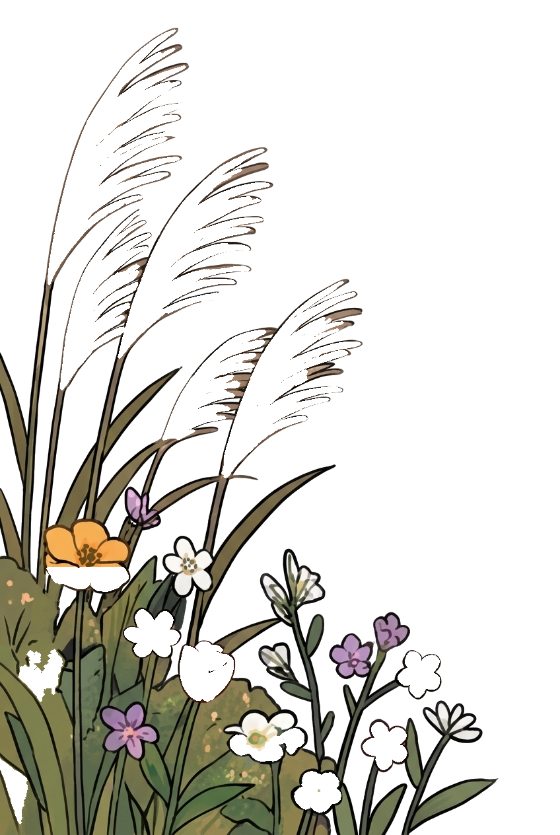
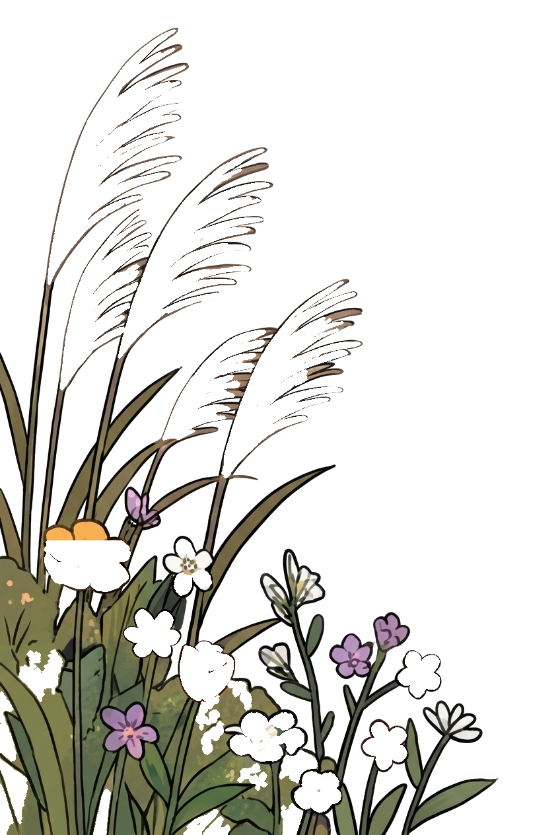
feat: 꽃도 낱낱이 떼어 내 흔들리게 한다
- 꽃 층을 10개에서 26개로 늘려 작은 꽃까지 제 줄기를 축으로 움직인다
- 이삭 다섯까지 모두 31개 층

diff --git a/themes/motifs.js b/themes/motifs.js
@@ -260,8 +260,8 @@
     { f: 'reeds-p3', k: 'p', l: 39.505, t: 33.612, w: 25.0, ox: 3.4 },
     { f: 'reeds-p4', k: 'p', l: 10.731, t: 24.912, w: 16.274, ox: 2.2 },
     { f: 'reeds-p5', k: 'p', l: 28.892, t: 39.464, w: 18.632, ox: 10.3 },
-    { f: 'reeds-f1', k: 'f', l: 22.17, t: 72.918, w: 10.024, ox: 50.3 },
-    { f: 'reeds-f2', k: 'f', l: 8.255, t: 67.857, w: 14.741, ox: 64.5 },
+    { f: 'reeds-f1', k: 'f', l: 7.901, t: 64.693, w: 15.448, ox: 63.8 },
+    { f: 'reeds-f2', k: 'f', l: 22.17, t: 72.918, w: 10.024, ox: 50.3 },
     { f: 'reeds-f3', k: 'f', l: 52.476, t: 92.295, w: 8.491, ox: 52.3 },
     { f: 'reeds-f4', k: 'f', l: 64.741, t: 86.442, w: 8.019, ox: 46.4 },
     { f: 'reeds-f5', k: 'f', l: 70.991, t: 77.98, w: 7.665, ox: 46.2 },
@@ -269,7 +269,23 @@
     { f: 'reeds-f7', k: 'f', l: 34.906, t: 76.794, w: 6.84, ox: 32.2 },
     { f: 'reeds-f8', k: 'f', l: 41.038, t: 87.154, w: 13.325, ox: 49.1 },
     { f: 'reeds-f9', k: 'f', l: 3.184, t: 77.664, w: 8.019, ox: 49.0 },
-    { f: 'reeds-f10', k: 'f', l: 0.0, t: 90.792, w: 4.953, ox: 69.7 }
+    { f: 'reeds-f10', k: 'f', l: 0.0, t: 90.792, w: 4.953, ox: 69.7 },
+    { f: 'reeds-f11', k: 'f', l: 49.882, t: 89.764, w: 6.84, ox: 40.5 },
+    { f: 'reeds-f12', k: 'f', l: 43.042, t: 85.256, w: 9.552, ox: 9.0 },
+    { f: 'reeds-f13', k: 'f', l: 0.0, t: 82.725, w: 2.948, ox: 69.0 },
+    { f: 'reeds-f14', k: 'f', l: 50.118, t: 96.17, w: 4.009, ox: 39.3 },
+    { f: 'reeds-f15', k: 'f', l: 16.627, t: 94.43, w: 3.184, ox: 36.8 },
+    { f: 'reeds-f16', k: 'f', l: 0.0, t: 93.797, w: 2.476, ox: 22.6 },
+    { f: 'reeds-f17', k: 'f', l: 34.906, t: 83.2, w: 4.363, ox: 22.7 },
+    { f: 'reeds-f18', k: 'f', l: 35.849, t: 86.284, w: 4.245, ox: 26.2 },
+    { f: 'reeds-f19', k: 'f', l: 32.665, t: 96.882, w: 6.368, ox: 27.7 },
+    { f: 'reeds-f20', k: 'f', l: 42.335, t: 91.346, w: 5.542, ox: 69.3 },
+    { f: 'reeds-f21', k: 'f', l: 40.566, t: 81.381, w: 4.481, ox: 80.2 },
+    { f: 'reeds-f22', k: 'f', l: 43.868, t: 87.154, w: 4.599, ox: 46.1 },
+    { f: 'reeds-f23', k: 'f', l: 36.203, t: 97.673, w: 4.953, ox: 47.1 },
+    { f: 'reeds-f24', k: 'f', l: 31.014, t: 68.569, w: 3.42, ox: 43.7 },
+    { f: 'reeds-f25', k: 'f', l: 31.368, t: 64.693, w: 3.538, ox: 64.4 },
+    { f: 'reeds-f26', k: 'f', l: 34.198, t: 68.094, w: 3.656, ox: 55.2 }
   ];
 
   function reedsArt(cls) {

diff --git a/courses.html b/courses.html
@@ -268,7 +268,7 @@
 <script src="https://cdn.jsdelivr.net/npm/@supabase/supabase-js@2"></script>
 <script src="js/supabase-client.js?v=3"></script>
 <script src="js/course-series.js"></script>
-<script src="js/nav.js?v=64"></script>
+<script src="js/nav.js?v=65"></script>
 <script src="js/main.js"></script>
 <script>
 function esc(s){if(!s)return'';return String(s).replace(/&/g,'&amp;').replace(/</g,'&lt;').replace(/>/g,'&gt;').replace(/"/g,'&quot;').replace(/'/g,'&#39;');}

diff --git a/instructor.html b/instructor.html
@@ -311,7 +311,7 @@
 
 <script src="https://cdn.jsdelivr.net/npm/@supabase/supabase-js@2"></script>
 <script src="js/supabase-client.js?v=3"></script>
-<script src="js/nav.js?v=64"></script>
+<script src="js/nav.js?v=65"></script>
 <script src="js/main.js"></script>
 <script>
 function esc(s){if(!s)return'';return String(s).replace(/&/g,'&amp;').replace(/</g,'&lt;').replace(/>/g,'&gt;').replace(/"/g,'&quot;').replace(/'/g,'&#39;');}

diff --git a/search.html b/search.html
@@ -168,7 +168,7 @@
 
 <script src="https://cdn.jsdelivr.net/npm/@supabase/supabase-js@2"></script>
 <script src="js/supabase-client.js?v=3"></script>
-<script src="js/nav.js?v=64"></script>
+<script src="js/nav.js?v=65"></script>
 <script src="js/main.js"></script>
 <script>
 function esc(s){if(!s)return'';return String(s).replace(/&/g,'&amp;').replace(/</g,'&lt;').replace(/>/g,'&gt;').replace(/"/g,'&quot;').replace(/'/g,'&#39;');}

diff --git a/themes/loader.js b/themes/loader.js
@@ -21,7 +21,7 @@
 
   var THEMES = ['chuseok'];          // 쓸 수 있는 테마 이름
   // 테마 파일을 고칠 때마다 올린다. 안 올리면 돌아온 사람은 옛 파일을 본다.
-  var VER = '55';
+  var VER = '56';
 
   // 이 파일이 themes/loader.js 로 불렸다는 전제로 themes/ 의 주소를 찾는다.
   // 페이지가 하위 폴더(admin/)에 있어도 맞게 나온다.

diff --git a/contact.html b/contact.html
@@ -220,7 +220,7 @@
 </footer>
 <script src="https://cdn.jsdelivr.net/npm/@supabase/supabase-js@2"></script>
 <script src="js/supabase-client.js?v=3"></script>
-<script src="js/nav.js?v=64"></script>
+<script src="js/nav.js?v=65"></script>
 <script src="js/main.js"></script>
 <script>
 // 로그인한 회원이면 이름·연락처를 채워두고, 답변을 어디서 보는지 알린다.

diff --git a/about.html b/about.html
@@ -158,7 +158,7 @@
 </footer>
 <script src="https://cdn.jsdelivr.net/npm/@supabase/supabase-js@2"></script>
 <script src="js/supabase-client.js?v=3"></script>
-<script src="js/nav.js?v=64"></script>
+<script src="js/nav.js?v=65"></script>
 <script src="js/main.js"></script>
 <script>
 // 배경을 스크롤 양의 12% 만큼만 민다. 화면에 고정된 레이어라 이 정도만

diff --git a/login.html b/login.html
@@ -114,7 +114,7 @@
 </div>
 
 <script src="js/supabase-client.js?v=3"></script>
-<script src="js/nav.js?v=64"></script>
+<script src="js/nav.js?v=65"></script>
 <script>
 var REDIRECT_URL = window.location.origin + window.location.pathname.replace(/login\.html.*$/, 'index.html');
 var _nextParam = new URLSearchParams(window.location.search).get('next') || '';

diff --git a/pass.html b/pass.html
@@ -729,7 +729,7 @@
 </footer>
 
 <script src="https://cdn.portone.io/v2/browser-sdk.js"></script>
-<script src="js/nav.js?v=64"></script>
+<script src="js/nav.js?v=65"></script>
 <script>
 function esc(s){if(!s)return'';return String(s).replace(/&/g,'&amp;').replace(/</g,'&lt;').replace(/>/g,'&gt;').replace(/"/g,'&quot;').replace(/'/g,'&#39;');}
 

diff --git a/index.html b/index.html
@@ -890,7 +890,7 @@
 </footer>
 
 <script src="js/supabase-client.js?v=3"></script>
-<script src="js/nav.js?v=64"></script>
+<script src="js/nav.js?v=65"></script>
 <script src="js/main.js"></script>
 <script>
 // ────────────────────────────────────────────

diff --git a/my-courses.html b/my-courses.html
@@ -964,7 +964,7 @@ body {
 <script src="js/supabase-client.js?v=3"></script>
 <script src="js/phone-modal.js?v=1"></script>
 <script src="js/course-series.js"></script>
-<script src="js/nav.js?v=64"></script>
+<script src="js/nav.js?v=65"></script>
 <script src="js/main.js"></script>
 <script src="js/badges.js"></script>
 <script>

diff --git a/course-detail.html b/course-detail.html
@@ -953,7 +953,7 @@ body {
 <script src="https://cdn.portone.io/v2/browser-sdk.js"></script>
 <script src="js/supabase-client.js?v=3"></script>
 <script src="js/phone-modal.js?v=1"></script>
-<script src="js/nav.js?v=64"></script>
+<script src="js/nav.js?v=65"></script>
 <script src="js/main.js"></script>
 
 <script>
